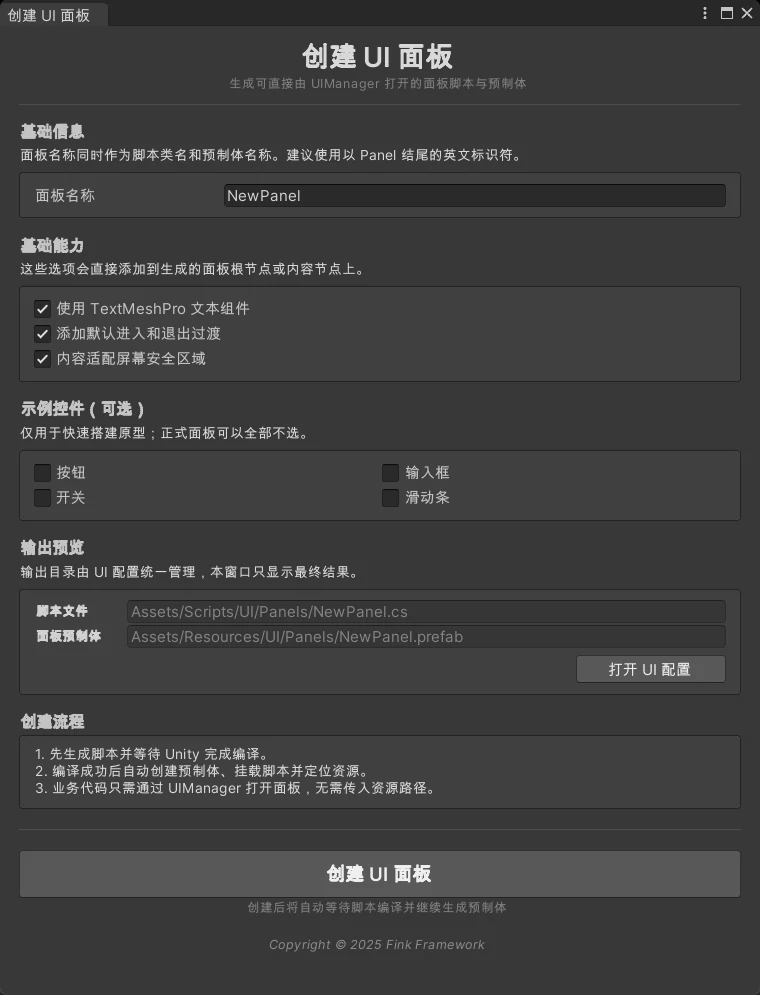
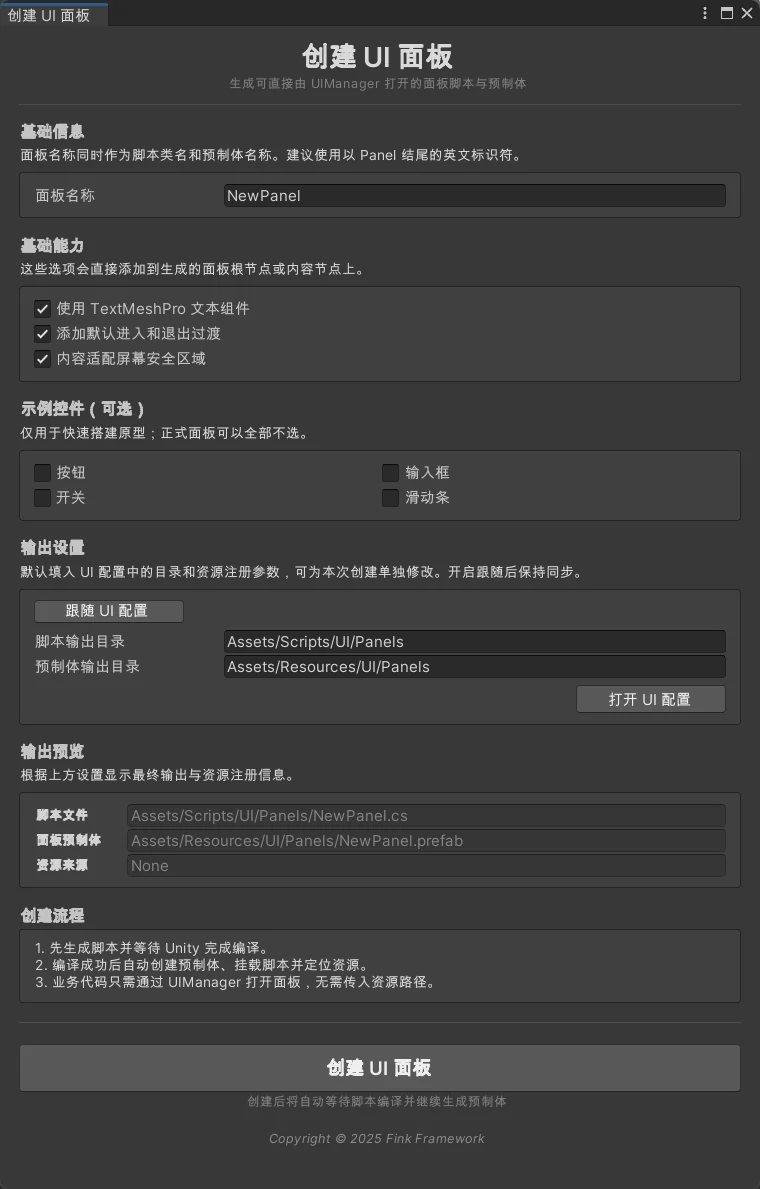
update: 更新至v1.1.5

diff --git a/docs/ui-system/ui-builder/index.md b/docs/ui-system/ui-builder/index.md
@@ -11,10 +11,10 @@
 1. 输入面板名称；
 2. 选择文本组件类型；
 3. 选择默认过渡、安全区和示例控件；
-4. 点击“创建 UI 面板”；
-5. Unity 编译生成的脚本；
-6. 编译完成后自动创建预制体并挂载面板脚本；
-7. 根据创建时的来源配置，注册 Addressables 资源或设置 AssetBundle 包名。
+4. 在“输出设置”中确认目录和资源注册参数，可为本次创建单独修改，或开启“跟随 UI 配置”；
+5. 检查“输出预览”中的最终文件路径、资源来源及提示，再点击“创建 UI 面板”；
+6. Unity 编译生成的脚本；
+7. 编译完成后自动创建预制体、挂载面板脚本，并根据创建时的参数完成资源注册，最后定位生成的预制体。
 
 面板名称同时作为 C# 类名和预制体文件名。建议使用 PascalCase，例如 `SettingsPanel`。
 
@@ -40,14 +40,14 @@
 
 ### 文本组件
 
-勾选“使用 TextMeshPro 文本组件”后，生成器使用 TextMeshPro 版本的示例控件；取消勾选则使用 Unity UGUI 的 `Text` / `InputField` 组件。输入框的生成脚本会分别引用 `TMP_InputField` 或 `InputField`。
+“使用 TextMeshPro 文本组件”默认勾选，生成器使用 TextMeshPro 版本的示例控件；取消勾选则使用 Unity UGUI 的 `Text` / `InputField` 组件。输入框的生成脚本会分别引用 `TMP_InputField` 或 `InputField`。
 
 ### 默认过渡与安全区
 
 - **默认过渡**：在面板根节点添加 `UICanvasGroupTransition`，并由该组件使用 `CanvasGroup` 执行进入和退出过渡；
 - **屏幕安全区**：在 `Content` 节点添加 `UISafeArea`，适合避让刘海、圆角和系统手势区域。
 
-这两个选项只影响初始预制体结构，生成后仍可以在 Inspector 中调整或移除。
+这两个选项默认开启，只影响初始预制体结构，生成后仍可以在 Inspector 中调整或移除。按钮、输入框、开关和滑动条等示例控件默认全部不选，正式面板可以直接从空的内容容器开始搭建。
 
 ## 可选内容
 
@@ -61,28 +61,58 @@
 | Toggle | 添加示例 Toggle 和回调代码 |
 | Slider | 添加示例 Slider 和回调代码 |
 
-## 输出路径
+## 输出设置与预览
 
-脚本和预制体路径来自 `Project Settings > Fink Framework > UI Settings`：
+### 本次设置与跟随 UI 配置（v1.1.5）
+
+首次打开时，生成器从 `Project Settings > Fink Framework > UI Settings` 填入输出目录和资源注册参数。“跟随 UI 配置”默认关闭，可以直接为本次创建修改这些值。
+
+| 配置项 | 作用 |
+| --- | --- |
+| 脚本输出目录 | 本次生成面板脚本的目录，例如 `Assets/Scripts/UI/Panels` |
+| 预制体输出目录 | 本次生成面板预制体的目录，根据当前加载来源校验 |
+| 资源组 | 仅 Addressables 来源显示，指定新预制体加入的 Group |
+| 资源包名 | 仅 AssetBundle 来源显示，指定新预制体的 AssetBundle 包名 |
+| 跟随 UI 配置 | 开启后立即同步并锁定上述字段，持续使用 UI Settings 中的值；关闭后保留当前值，恢复手动编辑 |
+| 打开 UI 配置 | 跳转到项目的 UI Settings，修改统一配置 |
+
+窗口中的手动修改用于本次生成，不会写回 UI Settings；关闭跟随时，切换窗口焦点或脚本重编译不会用全局配置覆盖已自定义的目录及资源注册参数。资源来源仍由 UI Settings 和全局资源后端决定，不能在生成器中单独切换。
+
+### 输出目录 {#输出路径}
+
+UI Settings 提供以下默认目录，生成器中的目录字段会显示包含 `Assets/` 的项目资源路径：
 
 - 脚本目录：全局脚本根目录下的 UI 面板目录；
 - Resources 预制体目录：默认 `Assets/Resources/UI/Panels/`；
 - 非 Resources 预制体目录：默认 `Assets/GameAssets/UI/Panels/`，不能位于 `Resources`、`Editor` 或 `StreamingAssets` 下。
 
-生成器窗口会显示最终输出路径，并在目标脚本或预制体已存在时停止生成。
+脚本目录仍按全局脚本根目录及 UI 面板相对目录规则校验；预制体目录也必须符合当前来源的限制，不能通过本次自定义绕过校验。生成器会在目标脚本或预制体已存在时停止生成。
 
-两类预制体目录分别保存，当前加载来源决定使用哪一个；跟随 `None` 后端仍使用 Resources 目录。切换来源或修改目录不会移动已有资源，也不会修改已有 Address，迁移时需手动整理。
+UI Settings 分别保存两类预制体目录，当前加载来源决定默认填入哪一个；跟随 `None` 后端仍使用 Resources 目录。切换来源或修改目录不会移动已有资源，也不会修改已有 Address，迁移时需手动整理。
+
+### 输出预览与加载一致性
+
+“输出预览”只读显示最终的脚本文件、面板预制体路径和资源来源；Addressables 还显示资源组与 Address，AssetBundle 显示资源包名。路径或资源注册参数无效时会显示错误，创建按钮下方也会提示不可创建的原因。
+
+自定义输出参数后，应检查生成资源是否仍符合运行时加载规则：
+
+- **Resources**：若预制体目录对应的 Resources 加载路径与 UI Settings 不同，窗口会显示警告。创建后需同步调整 UI Settings 的加载目录，才能通过 `UIManager` 打开该面板。例如改为 `Assets/Resources/UI/Dialogs` 后，`InventoryPanel` 的地址是 `res://UI/Dialogs/InventoryPanel`；原配置仍指向 `UI/Panels` 时无法找到它。
+- **Addressables**：可以为本次生成指定不同 Group，Address 仍固定为面板类名，业务继续通过 `OpenAsync<T>()` 打开。
+- **AssetBundle**：若本次包名与 UI Settings 不同，窗口会显示警告。运行时默认仍按 UI Settings 中的包名加载，需要同步调整加载配置，或使用 `CustomPanelAssetPathResolver` 返回实际地址；资源包仍需另行构建和部署。
+- **自定义来源**：只生成文件，需要项目自行注册资源并提供地址解析器。
+
+Resources 加载目录和默认 AssetBundle 包名是统一配置。调整它们时也应确认已有面板的资源位置，避免已有面板继续留在旧目录或旧包中。
 
 ### 资源注册（v1.1.4）
 
 | 当前来源 | 生成器行为 |
 | --- | --- |
 | Resources / 跟随 None | 保存预制体，由 Resources 路径加载 |
-| 跟随 Addressables | 加入 `UI Addressables Group`（默认 `UI Panels`，不存在时创建），Address 设置为面板类名 |
-| 跟随 AssetBundle | 设置 `UI AssetBundle 包名`（默认 `ui`），资源包需另行构建 |
+| 跟随 Addressables | 加入本次指定的资源组（初始取自 `UI Addressables Group`，默认 `UI Panels`，不存在时创建），Address 设置为面板类名 |
+| 跟随 AssetBundle | 设置本次指定的资源包名（初始取自 `UI AssetBundle 包名`，默认 `ui`），资源包需另行构建 |
 | 自定义 / 跟随 Custom | 只生成脚本和预制体，项目自行注册资源并配置地址解析器 |
 
-创建时的后端、Group 和包名会跨脚本编译保存，后续注册使用创建时的配置。Addressables 生成扩展需要安装 `com.unity.addressables`；缺失或存在编译错误时会提示不可用。
+创建时的输出目录、后端、Group 和包名会跨脚本编译保存，后续生成与注册使用点击创建时的参数。Addressables 生成扩展需要安装 `com.unity.addressables`；缺失或存在编译错误时会提示不可用。
 
 Address 使用区分大小写的面板类短名称。若该 Address 已被其他资源占用，生成器会拒绝注册；同名面板即使命名空间不同也会冲突。已有目标 Group 必须可写，并包含 `BundledAssetGroupSchema` 和 `ContentUpdateGroupSchema`。AssetBundle 包名必须小写且不含路径分隔符或非法字符。
 
@@ -92,7 +122,7 @@ Address 使用区分大小写的面板类短名称。若该 Address 已被其他
 Assets/FinkFramework/Editor/EditorResources/UI/template_ui_panel.txt
 ```
 
-生成器会根据脚本输出目录计算命名空间；因此建议在 UI Settings 中使用项目统一的脚本目录，不要将生成脚本放到临时目录。
+生成器会根据本次脚本输出目录计算命名空间；因此建议使用项目统一的脚本目录，不要将生成脚本放到临时目录。
 
 ## 生成结果
 
@@ -169,8 +199,9 @@ Fink Framework > UI 系统 > 运行时 UI 调试器
 
 | 现象 | 检查项 |
 | --- | --- |
-| 创建按钮不可用 | 面板名称、脚本路径或预制体路径不合法，或目标文件已存在 |
+| 创建按钮不可用 | 检查按钮下方与输出预览中的提示，确认名称、目录及资源注册参数有效，且目标文件不存在 |
+| 输出字段无法编辑 | 检查是否开启“跟随 UI 配置”；关闭后保留当前值并恢复编辑，或点击“打开 UI 配置”修改统一配置 |
 | 只有脚本没有预制体 | 查看 Console，确认脚本编译成功且类型继承 `BasePanel` |
-| 面板能生成但无法打开 | 检查加载来源对应的目录、Address 或包名，确认名称与类型一致、脚本挂在根节点；非 Resources 首次打开使用 `OpenAsync<T>()` |
+| 面板能生成但无法打开 | 检查自定义 Resources 目录或 AssetBundle 包名是否与运行时配置一致，并确认 Address、名称与类型、根节点脚本正确；非 Resources 首次打开使用 `OpenAsync<T>()` |
 | Addressables 注册失败 | 确认包与生成扩展可用、Address 未被其他资源占用、目标 Group 可写且包含所需 Schema |
 | 示例控件没有回调 | 检查控件名称是否被修改，以及脚本中的类型和 `GetControl<T>` 是否匹配 |

diff --git a/docs/ui-system/index.md b/docs/ui-system/index.md
@@ -288,9 +288,9 @@ UIManager.Instance.EnableNavigationInteraction();
 
 ## 11. 编辑器工具
 
-UI Builder 位于 `Fink Framework/UI 系统/创建 UI 面板`，根据 UI Settings 中的输出目录生成面板脚本和预制体。脚本编译完成后，工具会继续创建预制体并挂载生成的面板脚本。
+UI Builder 位于 `Fink Framework/UI 系统/创建 UI 面板`，默认从 UI Settings 填入输出目录及资源注册参数。v1.1.5 起可为本次创建单独修改，或开启“跟随 UI 配置”同步并锁定这些字段；输出预览会显示最终文件路径及注册信息。脚本编译完成后，工具会继续创建预制体并挂载生成的面板脚本。
 
-Resources 与非 Resources 预制体目录分别保存。跟随 Addressables 后端时，新面板会自动加入指定 Group 并以类名设置 Address；跟随 AssetBundle 时自动设置包名，资源包需另行构建。切换来源不会自动迁移已有面板，详见 [UI 面板生成器](/ui-system/ui-builder/)。
+Resources 与非 Resources 预制体目录在 UI Settings 中分别保存。跟随 Addressables 后端时，新面板会自动加入本次指定的 Group 并以类名设置 Address；跟随 AssetBundle 时设置本次指定的包名，资源包需另行构建。窗口中的手动修改不会写回统一配置，自定义 Resources 加载目录或 AssetBundle 包名后需保证运行时配置一致。切换来源不会自动迁移已有面板，详见 [UI 面板生成器](/ui-system/ui-builder/)。
 
 生成器可以选择：
 

diff --git a/docs/appendix/changelog/index.md b/docs/appendix/changelog/index.md
@@ -4,6 +4,19 @@
 
 ---
 
+### v1.1.5 <span style="font-size:0.8em; color:gray; font-weight:normal;">— 2026-10-16</span>
+
+完善 UI 创建面板的输出配置与预览
+
+- 将输出设置与输出预览拆分为独立板块，集中展示可编辑配置与最终输出结果。
+- 输出目录默认读取 UI 配置，支持为本次创建单独修改。
+- 新增“跟随 UI 配置”按钮，开启后自动同步并锁定配置，关闭后保留当前值并恢复编辑。
+- 支持自定义 Addressables 资源组与 AssetBundle 包名，生成时使用本次设置完成资源注册。
+- 保留自定义输出目录及资源注册参数，避免窗口切换焦点或脚本重编译后被覆盖。
+- 新增 Resources 加载路径及 AssetBundle 包名与全局配置不一致时的提示。
+
+---
+
 ### v1.1.4 <span style="font-size:0.8em; color:gray; font-weight:normal;">— 2026-10-15</span> {#v1-1-4}
 
 UI 多来源资源加载与面板生成流程完善

diff --git a/docs/getting-started/welcome/index.md b/docs/getting-started/welcome/index.md
@@ -23,8 +23,8 @@ import { withBase } from 'vitepress'
 </div>
 
 <div class="docs-version-meta" aria-label="文档版本信息">
-  <span class="docs-version-meta__item"><span>文档更新日期</span><time datetime="2026-10-15">2026.10.15</time></span>
-  <span class="docs-version-meta__item"><span>适用版本</span><a :href="withBase('/appendix/changelog/#v1-1-4')">v1.1.4</a></span>
+  <span class="docs-version-meta__item"><span>文档更新日期</span><time datetime="2026-10-15">2026.10.16</time></span>
+  <span class="docs-version-meta__item"><span>适用版本</span><a :href="withBase('/appendix/changelog/#v1-1-4')">v1.1.5</a></span>
 </div>
 
 ## 框架简介
